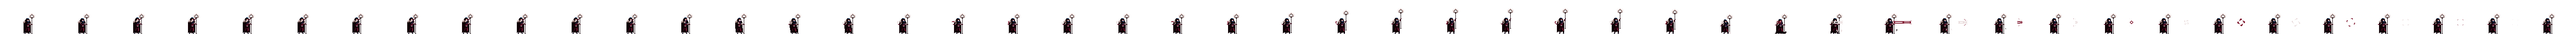
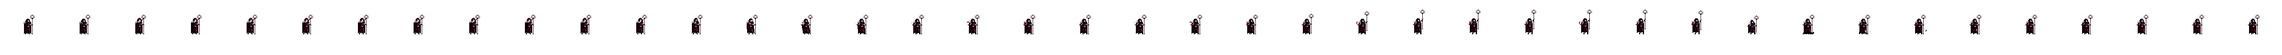
Update Necromancer attack sprite dimensions and adjust animation frame range

diff --git a/src/constants/necromancer.constants.ts b/src/constants/necromancer.constants.ts
@@ -33,13 +33,13 @@ export const necromancer_constants = [
     spriteKey: "Necromancer_Attack",
     spritePath: "./img/Necromancer/Necromancer_Attack.png",
     spriteConfiguration: {
-      frameWidth: 128,
-      frameHeight: 128,
+      frameWidth: 130,
+      frameHeight: 130,
     },
     animationKey: "necromancer_attack",
     animConfiguration: {
       start: 0,
-      end: 46,
+      end: 41,
     },
     frameRate: 12,
     repeat: 1,
